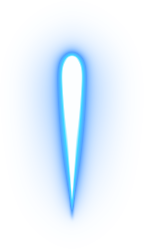
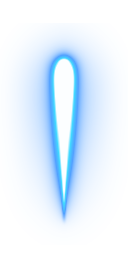
did some things with the playerplane subclasses - we still need to implement enemies

Changed region(s): [[0.3438, 0.1968, 0.6562, 0.6747], [0.4688, 0.8434, 0.5312, 0.8715], [0.5, 0.7871, 0.5312, 0.8153]]

diff --git a/game/core/src/com/mygdx/game/Projectile.java b/game/core/src/com/mygdx/game/Projectile.java
@@ -15,7 +15,7 @@ public class Projectile
     public Projectile(Sprite bulletSprite, int x, int y, boolean isEnemyBullet)
     {
         this.bulletSprite = bulletSprite;
-        this.bulletSprite.setScale(bulletSprite.getWidth()/2, bulletSprite.getHeight()/2);
+        this.bulletSprite.setSize(bulletSprite.getWidth()/2, bulletSprite.getHeight()/2);
         this.x = x;
         this.y = y;
         if (isEnemyBullet) speed *= -1;
@@ -30,7 +30,9 @@ public class Projectile
     }
     public void render(SpriteBatch batch)
     {
-        batch.draw(bulletSprite, x, y);
+        bulletSprite.draw(batch);
+        bulletSprite.setPosition(x, y);
+        // it used to be batch.draw(bulletSprite)
     }
 
     public boolean isRemove() {
